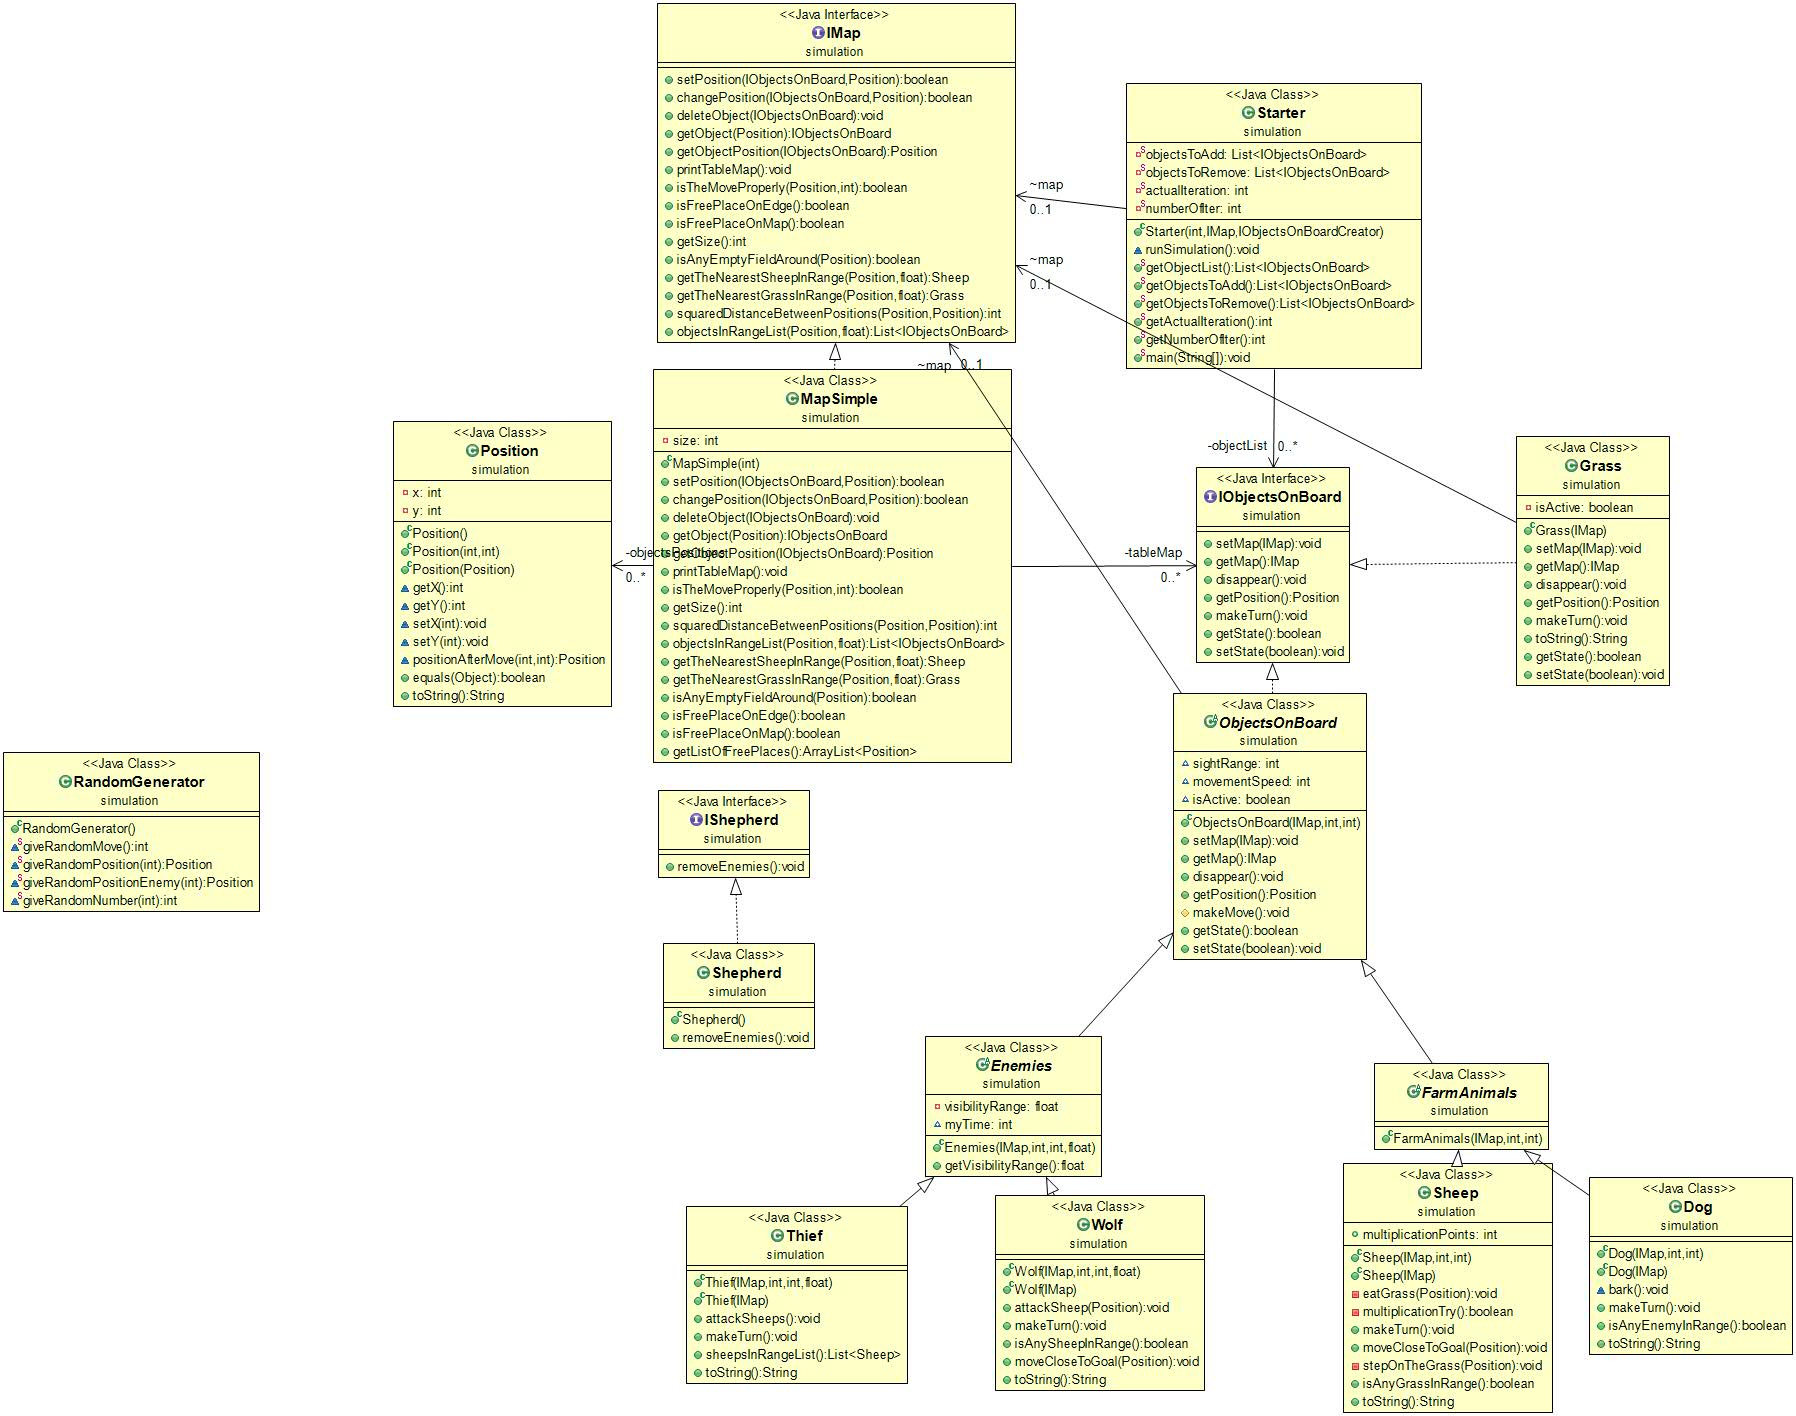
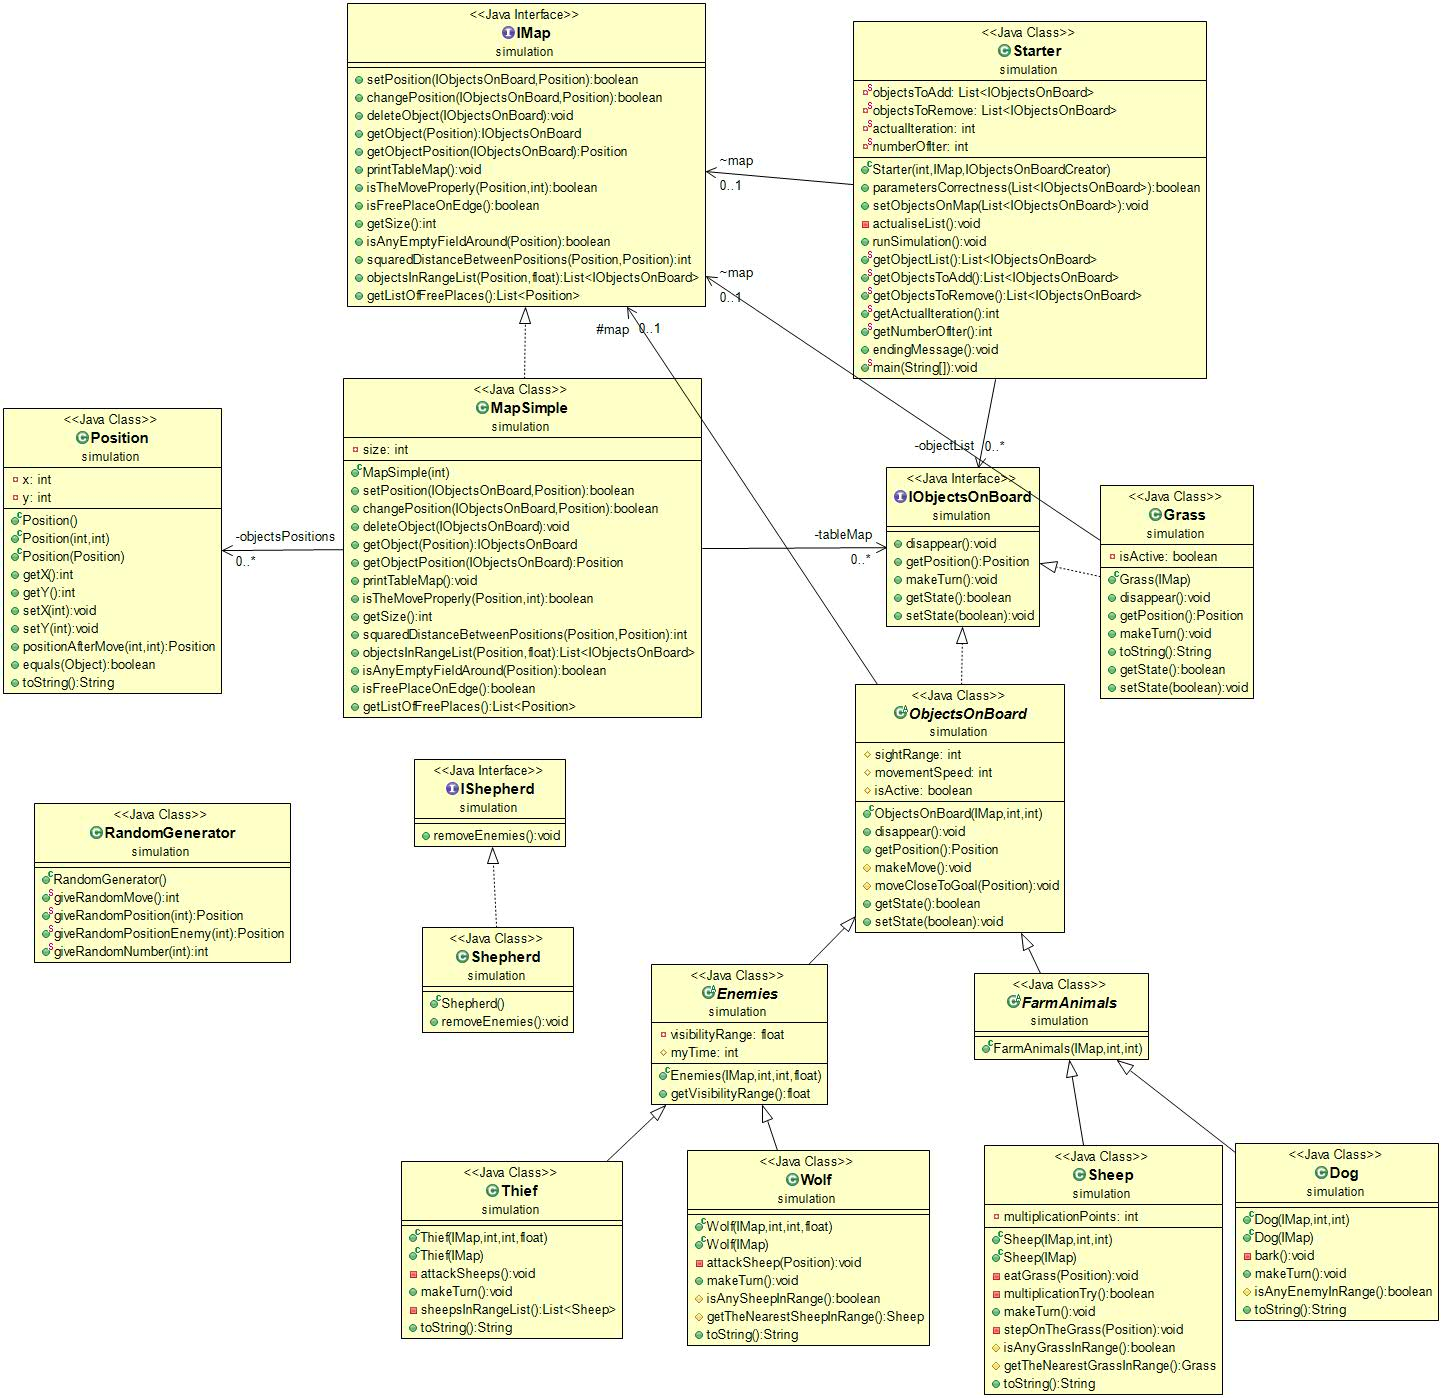
Poprawki

diff --git a/ProjectSimulation/src/main/java/simulation/MapSimple.java b/ProjectSimulation/src/main/java/simulation/MapSimple.java
@@ -11,7 +11,7 @@ public class MapSimple implements IMap {
 	/**
 	 * Metoda tworzy tabele dwuwymiarowa, na ktorej reprezentowane beda obiekty.
 	 * Tworzy takze HashMape ktora ulatwi dostanie sie do poszczegolnego obiektu.
-	 * @param rozmiar mapy
+	 * @param size - rozmiar mapy
 	 */
 	public MapSimple(int size) {
 		tableMap = new IObjectsOnBoard[size][size];
@@ -26,7 +26,7 @@ public class MapSimple implements IMap {
 	
 	/**
 	 *	Metoda sluzaca do ustawiania pozycji obiektu, ktory nie zostal jeszcze ulokowany na mapie
-	 * 	@param Obiekt ktory umieszczamy, oraz pozycja ktora bedzie mial.
+	 * 	@param  object - Obiekt ktory umieszczamy @param position - pozycja ktora bedzie mial.
 	 */
 	@Override
 	public boolean setPosition(IObjectsOnBoard object, Position position) {             //dla obiektow nie majacych pozycji (dla nowo utworzonych)
@@ -39,7 +39,7 @@ public class MapSimple implements IMap {
 	
 	/**
 	 *	Metoda sluzaca do zmiany pozycji obiektu, ktory byl juz wczesniej na mapie.
-	 * 	@param Obiekt ktory umieszczamy, oraz pozycja ktora bedzie mial.
+	 * 	@param  object - Obiekt ktory umieszczamy @param position - pozycja ktora bedzie mial.
 	 */
 	@Override
 	public boolean changePosition(IObjectsOnBoard object, Position position) {          //dla obiektow majacych juz jakas pozycje
@@ -54,7 +54,7 @@ public class MapSimple implements IMap {
 	/**
 	 * Metoda sluzy do usuniecia danego obiektu z mapy.
 	 * Usuwa obiekt z tablicy i HashMapy.
-	 * @param obiekt, ktory chcemy usunac.
+	 * @param object - obiekt, ktory chcemy usunac.
 	 */
 	@Override
 	public void deleteObject(IObjectsOnBoard object) {                                  //czyszczenie tablicy i hashmapy przy calkowitym usuwaniu obiektu
@@ -67,7 +67,7 @@ public class MapSimple implements IMap {
 	
 	/**
 	 *	Metoda zwraca obiekt znajdujacy sie na podanej pozycji.
-	 * @param Pozycja, ktora sprawdzamy.
+	 * @param position - Pozycja, ktora sprawdzamy.
 	 */
 	@Override
 	public IObjectsOnBoard getObject(Position position) {
@@ -80,7 +80,7 @@ public class MapSimple implements IMap {
 	
 	/**
 	 * Metoda zwraca pozycje danego obiektu.
-	 * @param Obiekt ktorego pozycji szukamy.
+	 * @param object - Obiekt ktorego pozycji szukamy.
 	 */
 	@Override
 	public Position getObjectPosition(IObjectsOnBoard object) { // Odczyt pozycji podanego obiektu
@@ -105,7 +105,8 @@ public class MapSimple implements IMap {
 	
 	/**
 	 *	Metoda sprawdza czy analizowany ruch nie wyjdzie poza mape.
-	 *	@param Pozycja z ktorej sie ruszamy, kierunek ruchu.
+	 *	@param position - Pozycja z ktorej sie ruszamy, 
+	 *	@param move - kierunek ruchu.
 	 */
 	@Override
 	public boolean isTheMoveProperly(Position position, int move) { //Metoda sprawdza, czy nie wyjezdzamy za granice planszy

diff --git a/ProjectSimulation/src/main/java/simulation/Starter.java b/ProjectSimulation/src/main/java/simulation/Starter.java
@@ -36,7 +36,7 @@ public Starter(int numberOfIter, IMap map, IObjectsOnBoardCreator objectsCreator
 
     /**
      * Metoda sprawdza, czy podane startowe ilosci obiektow, sa w stanie zmiescic sie na mapie.
-     * @param objectsList
+     * @param objectsList - lista glowna obiektow.
      * @return True jezeli ilosc obiektow jest mniejsza niz ilosc pol mapy, w przeciwnym przypadku false.
      */
     public boolean parametersCorrectness(List<IObjectsOnBoard> objectsList) {
@@ -51,7 +51,7 @@ public Starter(int numberOfIter, IMap map, IObjectsOnBoardCreator objectsCreator
     
     /**
      * Metoda nadaje pozycje kazdemu obiektowi - uzywana tylko raz, na poczatku symulacji.
-     * @param objectList
+     * @param objectList - lista glowna obiektow.
      */
     public void setObjectsOnMap(List<IObjectsOnBoard> objectList) {
    	    if(this.parametersCorrectness(objectList) ) {         //jesli obiektow jest mniej lub tyle samo co miejsc na mapie to przypisanie sie wykona
@@ -100,7 +100,7 @@ public Starter(int numberOfIter, IMap map, IObjectsOnBoardCreator objectsCreator
 				actualiseList();
 				
 				System.out.println("Iteration: " + i);
-				map.printTableMap();                                //wyswietlenie tablicy dwuwymiarowej			
+				//map.printTableMap();                                //wyswietlenie tablicy dwuwymiarowej			
 			}
 		}
 
@@ -140,9 +140,23 @@ public Starter(int numberOfIter, IMap map, IObjectsOnBoardCreator objectsCreator
 		return numberOfIter;
 	}
 	
+	/**
+	 * Metoda wpisuje stan stada owiec.
+	 */
+	public void endingMessage() {
+		
+		int aliveSheepCounter=0;
+		
+		for(IObjectsOnBoard o : objectList)
+		{
+			if(o instanceof Sheep) aliveSheepCounter++;
+		}
+		System.out.println("Alive sheep(s) left: "+ aliveSheepCounter);
+	}
+	
 	public static void main(String[] args) {
 		
-		IMap map = new MapSimple(10);
+		IMap map = new MapSimple(15);
 																                            // glowne parametry symulacji. Ilosci (po kolei):
 		IObjectsOnBoardCreator objectsCreator = new ObjectsOnBoardCreator(99,0,0,5,10);		// Owca, Pies, Trawa, Zlodziej, Wilk
 
@@ -150,6 +164,7 @@ public Starter(int numberOfIter, IMap map, IObjectsOnBoardCreator objectsCreator
 		
 		starter.runSimulation();
 		
+		starter.endingMessage();
 	}
 
 }

diff --git a/ProjectSimulation/src/main/java/simulation/FarmAnimals.java b/ProjectSimulation/src/main/java/simulation/FarmAnimals.java
@@ -6,6 +6,9 @@ public abstract class FarmAnimals extends ObjectsOnBoard {
 	/**
 	 *	Konstruktor wywoluje konstruktor z klasy rodzica.
 	 *	Dodatkowo ustawia pole isActive na wartosc true.
+	 * 	@param map, 
+	 * 	@param sightRange,
+	 *  @param movementSpeed.
 	 */
 	public FarmAnimals(IMap map, int sightRange, int movementSpeed) {
 		super(map, sightRange, movementSpeed);

diff --git a/ProjectSimulation/src/main/java/simulation/Grass.java b/ProjectSimulation/src/main/java/simulation/Grass.java
@@ -5,8 +5,7 @@ public class Grass implements IObjectsOnBoard {
 	/**
 	 * Konstruktor zapisuje referencje do obiektu implementujacego interfejs IMap.
 	 * Ustawia pole isActive na true.
-	 * 
-	 * @param map
+	 * @param map.
 	 */
 	public Grass(IMap map) {
 		this.map = map;
